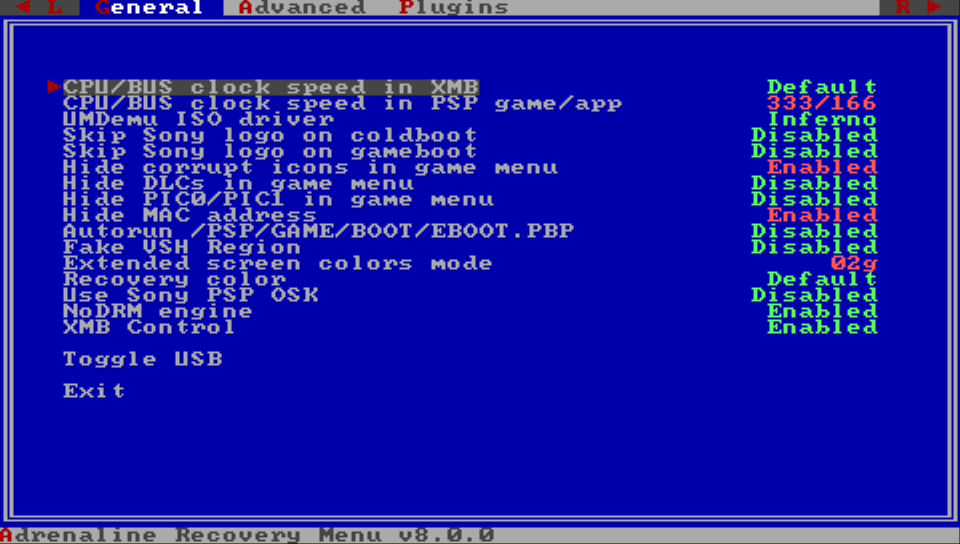
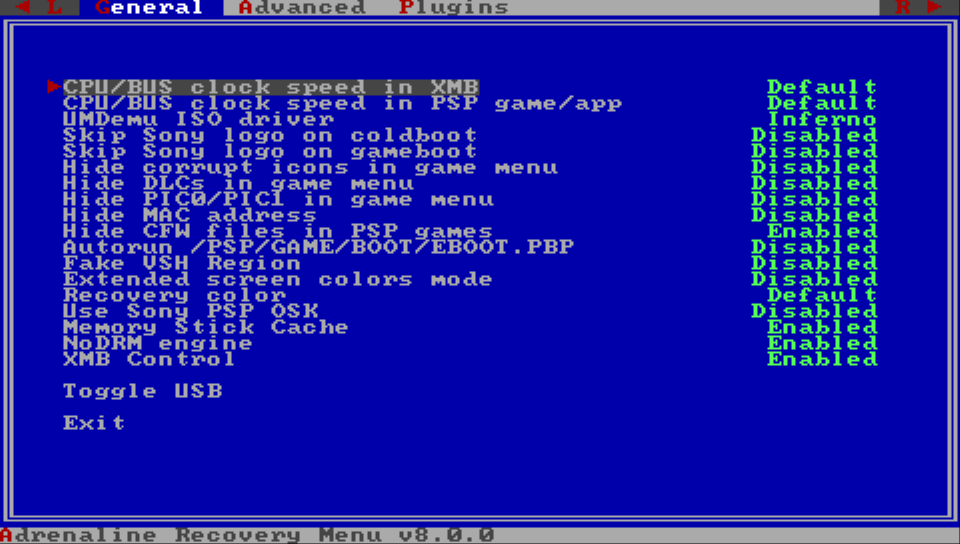
docs: Update CFW options with new option

diff --git a/docs/src/08-CfwConfiguration.md b/docs/src/08-CfwConfiguration.md
@@ -86,6 +86,18 @@ Controls whether to stops displaying PIC0 and/or PIC1 images on XMB, allowing qu
 
 When enabled, hides the MAC address from the `Settings > System Settings > System Information`.
 
+### Hide CFW files in PSP games
+
+When enabled, hides the CFW files from being seem or modified by PSP games.
+
+This is not applied to homebrew games/apps or custom updater, even if the option is enabled.
+
+> [!CAUTION]
+> This option does affect **signed** homebrew games/apps (homebrew signed to work on PSP OFW) as signed homebrew is launched in the same way as an official PSP game.
+>
+> For this reason, if you have a homebrew software that only comes signed and it needs to access CFW files, you can disable this option.
+
+
 ### Autorun /PSP/GAME/BOOT/EBOOT.PBP
 
 When enabled, the system automatically launches the game/app int the `???0:/pspemu/PSP/GAME/BOOT/EBOOT.PBP`.
